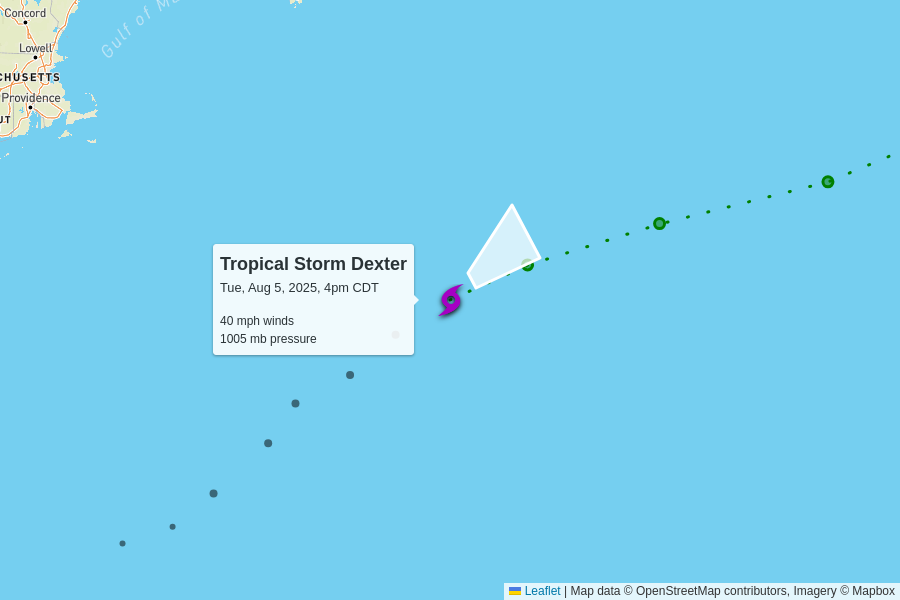
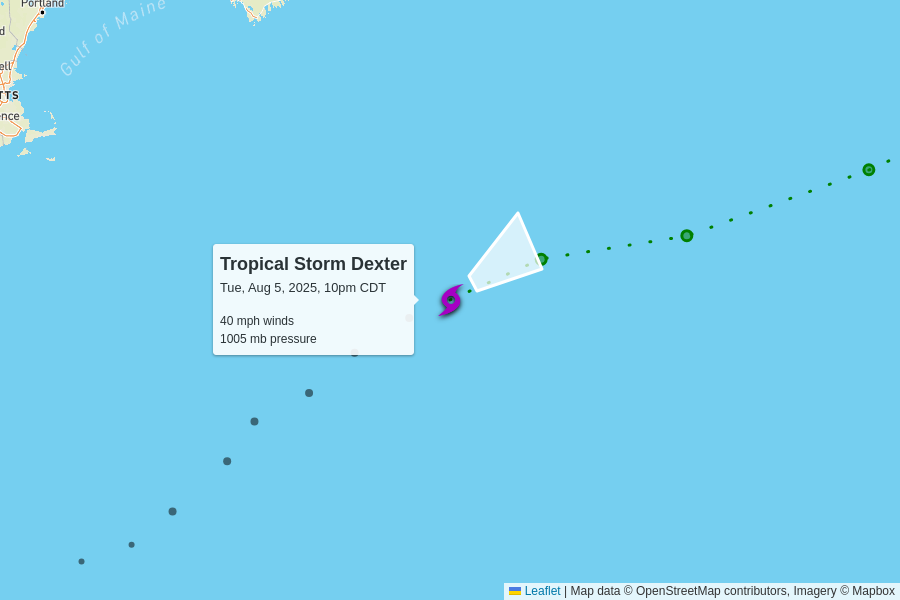
automatic update

diff --git a/docs/index.html b/docs/index.html
@@ -102,7 +102,7 @@
         <td colspan="6" class="storm category-0" >
           <h2>
             Tropical Storm Dexter
-            <p class="updated">last updated <span data-time>2025-08-05T21:00:00.000Z</span></p>
+            <p class="updated">last updated <span data-time>2025-08-06T03:00:00.000Z</span></p>
           </h2>
         </td>
       </tr>
@@ -120,9 +120,9 @@
         <td>40 mph<br>0 mph since last update</td>
         <td>1005 mb<br>0 mb since last update</td>
         <td>
-          13 mph to the northeast
+          12 mph to the east-northeast
           <br/>
-          <span style="display: inline-block; font-size: 1.5em; transform: rotate(55deg);">↑</span>
+          <span style="display: inline-block; font-size: 1.5em; transform: rotate(60deg);">↑</span>
         </td>
         <td><a href="https://raw.githubusercontent.com/mgwalker/atlantic-hurricanes/main/data/csv/AL042025.csv">AL042025.csv</a></td>
         <td><a href="https://www.nhc.noaa.gov/archive/2025/DEXTER.shtml?">NHC advisories</a></td>
